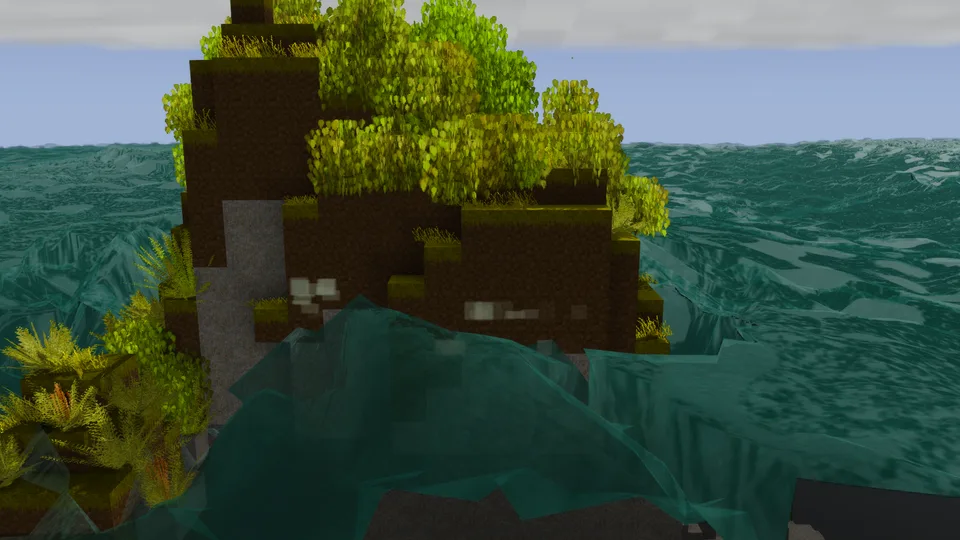
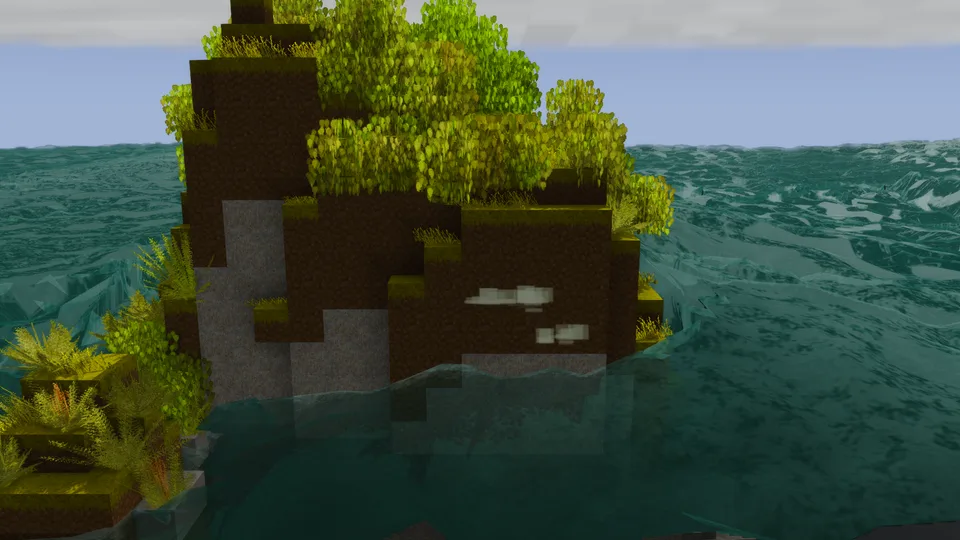
336 docs: the reflection's slope limit, and the cliff picture on the final build
[claude-opus-5-5] on behalf of hoblin

diff --git a/docs/sea-and-weather.md b/docs/sea-and-weather.md
@@ -71,7 +71,7 @@ SeaMapServer ── snapshot per region ─────────→  the wate
 - **The water under the shore.** `Shore/Groundwater` puts the shore's own still water (salt or fresh, vanilla's block) into the fluid layer under the full blocks of the shore at its still-water level, rock included, as far as the swash reaches: `Band` throws a sheet from every cell of water beside land, by the run-up of the higher of the everyday sea (`SeaModel.EverydayWavesIn`: the background wind's mean, blowing the prevailing way, fully built) and the sea map's now, and follows it block by block (`SheetFront`). The band's reach is worked out again rather than recorded: one flood a water level, off the main thread, after a chunk loads, a block changes in or beside the band, or its shore's sea changes; each chunk is then wetted or drained to match at the water's spread delay. The water itself is vanilla's and is saved with the chunks: a world opened without the mod keeps it under its shores, hidden, and vanilla's readers see it as water there. Vanilla leaves a carrier alone (a full block is a barrier both ways); digging its block frees it as ordinary water, and the hole fills. `/shore here` reads the ground under the player and how far the nearest shore runs up; `[shore]` logs every chunk's band.
 - **Open water.** A position holding a full solid block is land, whatever its fluid layer holds: every reader asks `OpenWater`, never the fluid layer alone. `VanillaShore` keeps vanilla's readers on land the same way: a random tick there goes to the solid block, liquid containers neither pick nor fill from it, `SearchFluidBlocks` (farmland) and the bobber's pond count leave it out.
 - **The seabed.** `Surf/SurfMaker` reads the seabed around the player off the main thread (`SeabedMap`, a texel a block, `surface.shore` in `storms.json`) and builds a `SurfField`: the depth, the slope, each wave slot's lag over the shoaling bed (`PhaseField`, the eikonal solved by fast sweeping, so the crests turn by Snell's law), and over land the swash's distance from the shoreline, the shore's run-up and the run-up a wave needs to get there. `seasurface.vsh` shoals and refracts each slot over the bed, holds the waves to the height the depth carries (McCowan), and steepens a plunging breaker to the cusp (Iribarren); over land it draws the Shen & Meyer sheet over the water under the shore, each wave's run-up from its own height at the shoreline. `seawet.fsh` darkens the ground the swash wets while it drains. `SeaSurface.Shore` is the CPU's side of the same, and `SwellAround` reads its own seabed on the server. `.surface shore off` draws the sea as if deep everywhere; `.surface bed N` reads the field under the player.
-- **Faces.** `Surf/FaceBuilder` reads every side of a full block a water column meets (`SeabedMap.CrownAt`, the ground's own read, a barrier's by its own walk) into the field's `Face` layer (`seaFace`): the distance to the nearest face through the water, its outward normal averaged over a quarter wavelength to either side, among faces not looking the opposite way, so a stair reflects as the wall it makes up and a thin wall keeps both its sides, and the reflection (`WallReflection`, Zanuttigh & van der Meer), negative where the crest stands higher than the face. `seasurface.vsh` and `SeaSurface` add the mirrored train; `HullVelocityAt` leaves it out. `Storms/FaceStrikes` decides each strike from the shared sea and the clock every `faces.tickMilliseconds` (the dominant slot's crest reaching the face, as `seaSwash` times a sheet), and `SprayParticles` spends the `Impact` that `WallSpray` computes on vanilla's async particles; the sheet stopped at a step comes from the band's own spread (`StepFace`, `SurfBuilder`). A step's foot is written as a face distance of -1.5 for the shader. Keep `seaFoamDecay` out of `seaFoam`: a vertex stage that used `seaFoam` makes other programs active for its uniforms.
+- **Faces.** `Surf/FaceBuilder` reads every side of a full block a water column meets (`SeabedMap.CrownAt`, the ground's own read, a barrier's by its own walk) into the field's `Face` layer (`seaFace`): the distance to the nearest face through the water, its outward normal averaged over a quarter wavelength to either side, among faces not looking the opposite way, so a stair reflects as the wall it makes up and a thin wall keeps both its sides, and the reflection (`WallReflection`, Zanuttigh & van der Meer); the normal is written half length where the crest stands higher than the face, which then doesn't foam. The distance is measured from that same smoothed line, and the reflected lift grows from the face no steeper than `faces.reflectedSlopeLimit`, since a face's own vertices are shared with the water held under the land. `seasurface.vsh` and `SeaSurface` add the mirrored train; `HullVelocityAt` leaves it out. `Storms/FaceStrikes` decides each strike from the shared sea and the clock every `faces.tickMilliseconds` (the dominant slot's crest reaching the face, as `seaSwash` times a sheet), and `SprayParticles` spends the `Impact` that `WallSpray` computes on vanilla's async particles; the sheet stopped at a step comes from the band's own spread (`StepFace`, `SurfBuilder`). A step's foot is written as a face distance of -1.5 for the shader. Keep `seaFoamDecay` out of `seaFoam`: a vertex stage that used `seaFoam` makes other programs active for its uniforms.
 
 ## Rules that keep it whole
 

diff --git a/docs/wiki/The-Science-of-the-Sea.md b/docs/wiki/The-Science-of-the-Sea.md
@@ -43,7 +43,7 @@ The drawn waves read the seabed around the player, a block a cell: its depth und
 - **A cubic beach climbs in steps.** Block by block, the sheet's front climbs a step only while its velocity head u² / 2g reaches over it. Between steps it loses speed to bed friction, quadratic, with a coefficient of 0.007 fitted to over 4,500 uprushes on a sandy beach (Puleo and Holland 2001, *Coastal Engineering* 43(1)), over the lens's mean depth. It stops where it can't climb, where the bed has drunk it, or when its wave's period is out and the next bore runs over it.
 - **Soaking in.** The bed drinks the sheet at its hydraulic conductivity K, by Darcy's law: in m/s, sand 10⁻⁴, gravel 3·10⁻², soil 10⁻⁶ and rock nothing (Freeze and Cherry 1979, *Groundwater*, table 2.2). On gravel a thin sheet sinks in and little runs back; on rock it all runs back.
 - **Wet sand.** Wet sand reflects about half the light dry sand does: Ångström measured an albedo of 0.182 dry against 0.091 wet (Lekner and Dorf 1988, *Applied Optics* 27(7), "Why some things are darker when wet"). Ground the swash reaches is darkened by the share of time it stays wet: the time its sheet's mean depth takes to soak in, over the wave period, times the chance a wave reaches it, exp(−ln 50 (R / R2%)²) in a Rayleigh sea, R the run-up it takes to get there.
-- **Waves against a face.** A face is any side of a full block the sea or a sheet meets, a cliff and a beach step alike. A wave reflects off it by the coefficient Kr = tanh(a ξ^b), a = 0.167 (1 − exp(−3.2 γf)), b = 1.49 (γf − 0.38)² + 0.86 (Zanuttigh and van der Meer 2008, *Coastal Engineering* 55(10)), ξ the surf similarity parameter of the slope read from 1.5 Hm0 below still water up to the face (EurOtop 2018, 5.3.4): nothing to speak of on a beach, all of it at a wall. The reflected wave leaves with the incident one's phase at the face, so the two stand together as a clapotis, its crest (1 + Kr) H / 2 over still water for a wave square to the face; a wave meeting it at an angle θ returns cos θ of that, nothing as it grazes along the face. Away from a short face the reflection thins as its width over √(L s), L the wavelength and s the distance.
+- **Waves against a face.** A face is any side of a full block the sea or a sheet meets, a cliff and a beach step alike. A wave reflects off it by the coefficient Kr = tanh(a ξ^b), a = 0.167 (1 − exp(−3.2 γf)), b = 1.49 (γf − 0.38)² + 0.86 (Zanuttigh and van der Meer 2008, *Coastal Engineering* 55(10)), ξ the surf similarity parameter of the slope read from 1.5 Hm0 below still water up to the face (EurOtop 2018, 5.3.4): nothing to speak of on a beach, all of it at a wall. The reflected wave leaves with the incident one's phase at the face, so the two stand together as a clapotis, its crest (1 + Kr) H / 2 over still water for a wave square to the face; a wave meeting it at an angle θ returns cos θ of that, nothing as it grazes along the face. The reflected water rises from the face no steeper than tan 30°, the slope beside the 120° crest of Stokes' limiting wave (1880), so the crest is drawn a little off a wall rather than on it. Away from a short face the reflection thins as its width over √(L s), L the wavelength and s the distance.
 - **A wave that breaks on a face.** A wave breaks at a face when the depth can't carry it (H ≥ d / 1.28) or when it reaches the face already whitecapped. A wave that breaks on a face strikes impulsively. The water it throws above its clapotis crest follows EurOtop 2018's overtopping of vertical walls under impulsive waves, read as water passing the height z = Rc: q / √(g H³) = 0.011 (H / (h s))^½ exp(−2.2 z / H) up to z / H = 1.35 and 0.0014 (H / (h s))^½ (z / H)^−3 above it (eq. 7.7 and 7.8); for a crest already breaking when it reaches a deep toe those formulas are the closest analogue measured. A face lower than the crest takes no jet: the wave runs over it. That is a wave's water over its period; its share above each height sets how high each drop goes, at most at the highest water speed measured at a wall under a breaking wave, about 2.2 C, C its celerity: Ikeda, O'Shea, Brucker, Drazen, Dommermuth, Fu, Fullerton and Duncan (2012, 29th Symposium on Naval Hydrodynamics) measured the contact point on a face under a plunging breaker rising to about 3 m/s, under waves of 1.15 Hz, whose phase speed is 1.36 m/s.
 - **A sheet stopped by a step.** A sheet that can't climb a step (above) strikes it with all the water of its lens, the drops reaching at most its velocity head u² / 2g, most of them far less, by the same exp(−2.2 z / H), H its head.
 - **Foam at a face.** Foam lies along the face for a band one wave height wide after a wave the depth has broken strikes it, and fades as whitecap foam does: e-folding in 3.1 s, the middle of the 1.4 to 4.8 s Callaghan, Deane and Stokes measured (2012, *JGR Oceans*).
